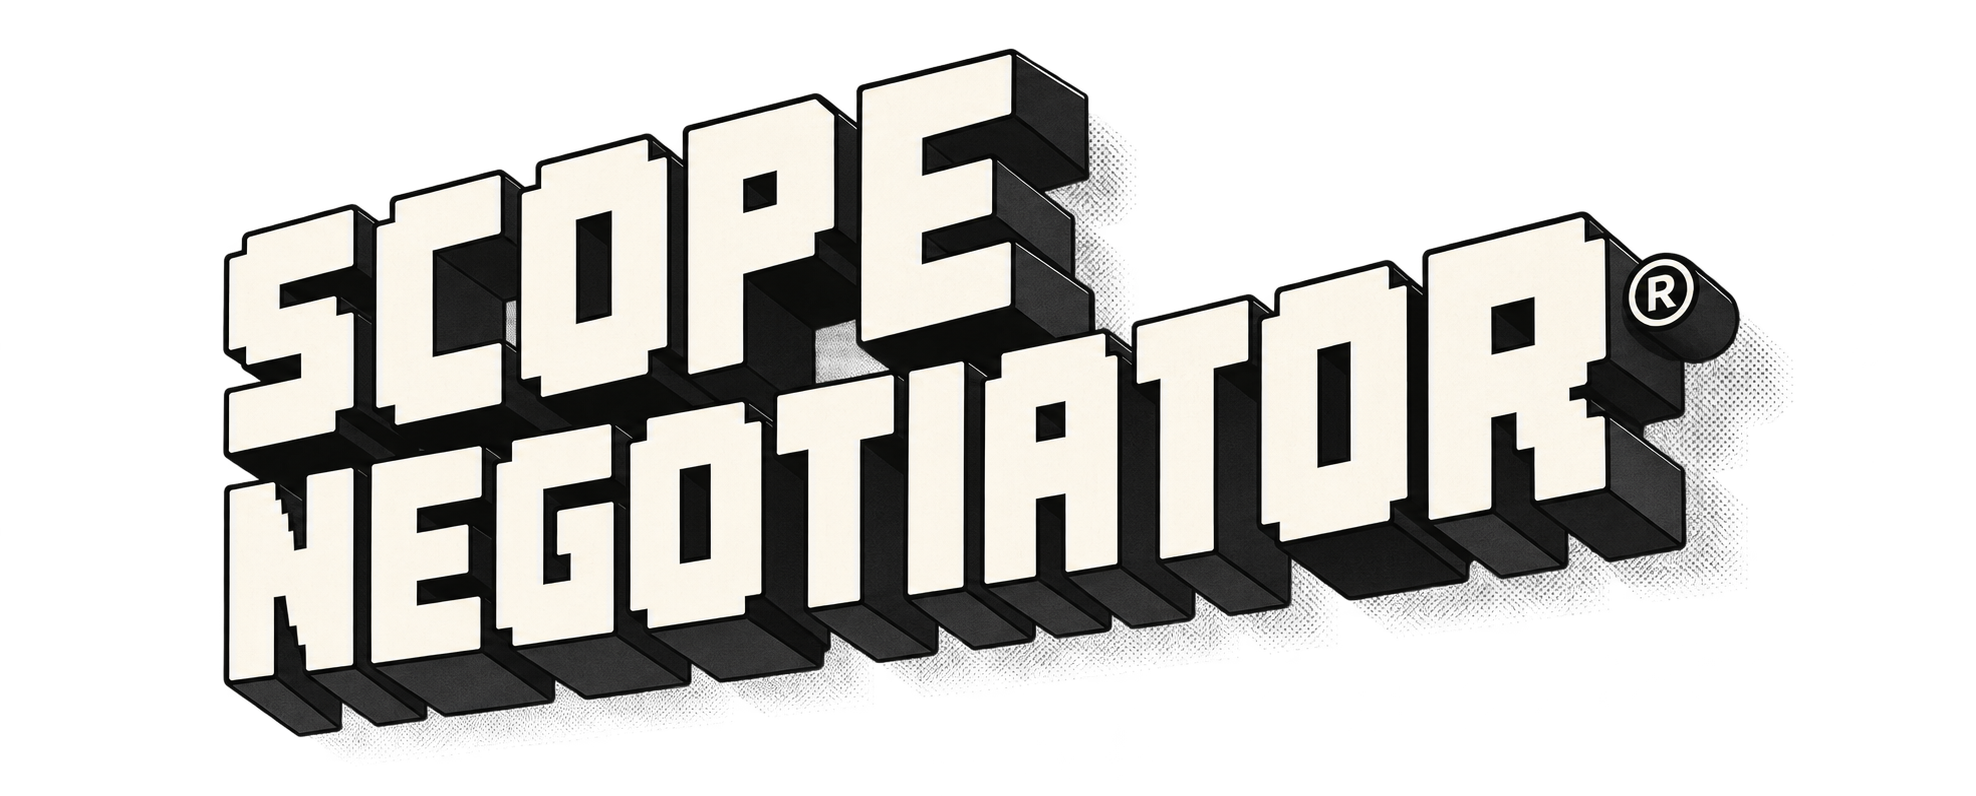
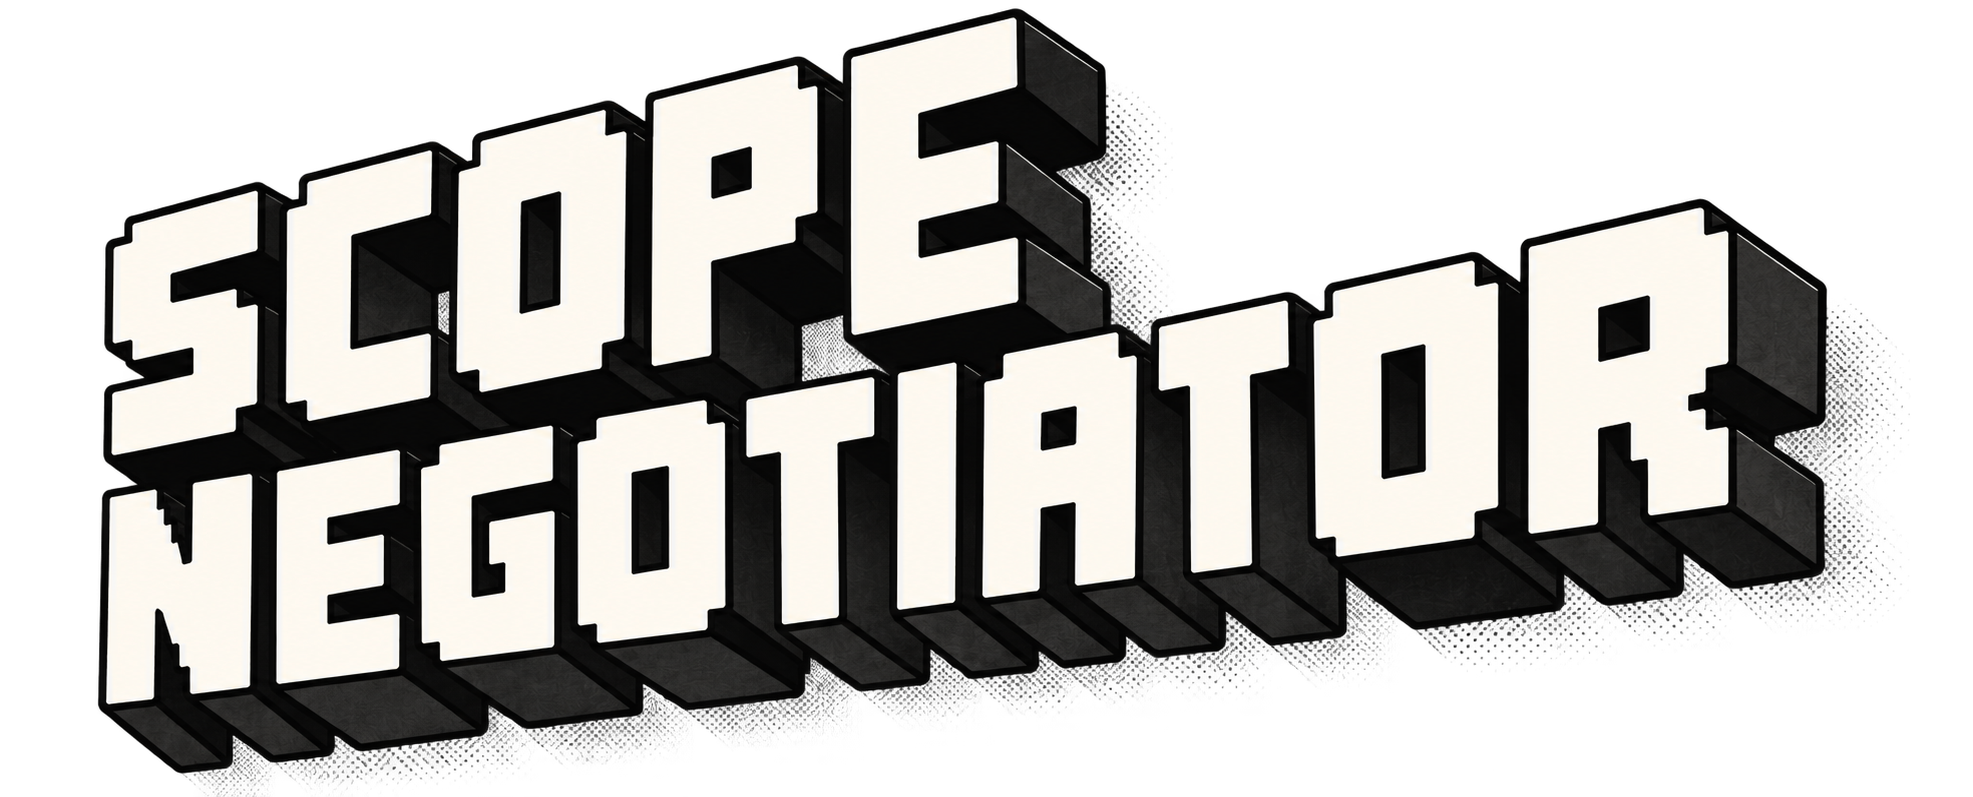
style: remove registered trademark symbol, update wordmark
Remove programmatic ® from header, sidebar, and all footers.
Replace wordmark PNG with updated version without trademark.

Changed region(s): [[0.0309, 0.0, 0.9584, 1.0]]

diff --git a/src/components/layout/WorkflowHeader.tsx b/src/components/layout/WorkflowHeader.tsx
@@ -27,7 +27,7 @@ export function WorkflowHeader({ currentStage, onReset }: Props) {
           className={styles.brand}
           onClick={onReset}
         >
-          SCOPE NEGOTIATOR<span className={styles.reg}>&reg;</span>
+          SCOPE NEGOTIATOR
         </button>
         <nav className={styles.stages} aria-label="Workflow progress">
           {STAGES.map((stage, i) => {
@@ -60,7 +60,7 @@ export function WorkflowHeader({ currentStage, onReset }: Props) {
             className={styles.brand}
             onClick={onReset}
           >
-            SCOPE NEGOTIATOR<span className={styles.reg}>&reg;</span>
+            SCOPE NEGOTIATOR
           </button>
           <span className={styles.mobileCounter}>
             {String(currentIndex + 1).padStart(2, "0")} / {String(STAGES.length).padStart(2, "0")}

diff --git a/src/components/negotiate/NegotiateScreen.tsx b/src/components/negotiate/NegotiateScreen.tsx
@@ -136,7 +136,7 @@ export function NegotiateScreen() {
       <div className={styles.footerOuter}>
         <footer className={styles.footer}>
           <span>
-            Scope Negotiator<sup>&reg;</sup>&ensp;|&ensp;Product Scoping
+            Scope Negotiator&ensp;|&ensp;Product Scoping
             System&ensp;|&ensp;V1.0
           </span>
           <span>Negotiate&ensp;|&ensp;User Decision&ensp;|&ensp;04 / 05</span>

diff --git a/src/components/context/ContextScreen.tsx b/src/components/context/ContextScreen.tsx
@@ -106,7 +106,7 @@ export function ContextScreen() {
       <div className={styles.footerOuter}>
         <footer className={styles.footer}>
           <span className={styles.footerLeft}>
-            Scope Negotiator<sup>&reg;</sup>&ensp;|&ensp;Product Scoping
+            Scope Negotiator&ensp;|&ensp;Product Scoping
             System&ensp;|&ensp;V1.0
           </span>
           <span className={styles.footerRight}>

diff --git a/src/components/understand/UnderstandScreen.tsx b/src/components/understand/UnderstandScreen.tsx
@@ -88,7 +88,7 @@ export function UnderstandScreen() {
       <div className={styles.footerOuter}>
         <footer className={styles.footer}>
           <span>
-            Scope Negotiator<sup>&reg;</sup>&ensp;|&ensp;Product Scoping
+            Scope Negotiator&ensp;|&ensp;Product Scoping
             System&ensp;|&ensp;V1.0
           </span>
           <span>Understand&ensp;|&ensp;Analysis&ensp;|&ensp;02 / 05</span>

diff --git a/src/components/lock/LockScreen.tsx b/src/components/lock/LockScreen.tsx
@@ -289,7 +289,7 @@ export function LockScreen() {
       <div className={styles.footerOuter}>
         <footer className={styles.footer}>
           <span>
-            Scope Negotiator<sup>&reg;</sup>&ensp;|&ensp;Product Scoping
+            Scope Negotiator&ensp;|&ensp;Product Scoping
             System&ensp;|&ensp;V1.0
           </span>
           <span>Lock&ensp;|&ensp;Scope Locked&ensp;|&ensp;05 / 05</span>

diff --git a/src/components/context-flow/ContextFlow.tsx b/src/components/context-flow/ContextFlow.tsx
@@ -272,7 +272,7 @@ export function ContextFlow({ mode, onChangeType }: Props) {
       <div className={styles.footerOuter}>
         <footer className={styles.footer}>
           <span>
-            Scope Negotiator<sup>&reg;</sup>&ensp;|&ensp;Product Scoping
+            Scope Negotiator&ensp;|&ensp;Product Scoping
             System&ensp;|&ensp;V1.0
           </span>
           <span>

diff --git a/src/components/states/Loading.tsx b/src/components/states/Loading.tsx
@@ -59,7 +59,7 @@ export function Loading({
       <div className={styles.footerOuter}>
         <footer className={styles.footer}>
           <span>
-            Scope Negotiator<sup>&reg;</sup>&ensp;|&ensp;Product Scoping
+            Scope Negotiator&ensp;|&ensp;Product Scoping
             System&ensp;|&ensp;V1.0
           </span>
           <span>Processing</span>

diff --git a/src/components/workspace/WorkspaceSidebar.tsx b/src/components/workspace/WorkspaceSidebar.tsx
@@ -20,7 +20,7 @@ export function WorkspaceSidebar() {
     <aside className={styles.sidebar}>
       <div className={styles.header}>
         <Link href="/" className={styles.brand}>
-          SCOPE NEGOTIATOR<span className={styles.reg}>&reg;</span>
+          SCOPE NEGOTIATOR
         </Link>
         <p className={styles.workspaceLabel}>Workspace</p>
       </div>

diff --git a/src/components/states/ErrorState.tsx b/src/components/states/ErrorState.tsx
@@ -27,7 +27,7 @@ export function ErrorState({
       <div className={styles.footerOuter}>
         <footer className={styles.footer}>
           <span>
-            Scope Negotiator<sup>&reg;</sup>&ensp;|&ensp;Product Scoping
+            Scope Negotiator&ensp;|&ensp;Product Scoping
             System&ensp;|&ensp;V1.0
           </span>
           <span>Error</span>

diff --git a/src/components/clarify/ClarifyScreen.tsx b/src/components/clarify/ClarifyScreen.tsx
@@ -83,7 +83,7 @@ export function ClarifyScreen() {
       <div className={styles.footerOuter}>
         <footer className={styles.footer}>
           <span>
-            Scope Negotiator<sup>&reg;</sup>&ensp;|&ensp;Product Scoping
+            Scope Negotiator&ensp;|&ensp;Product Scoping
             System&ensp;|&ensp;V1.0
           </span>
           <span>

diff --git a/src/components/workspace/WorkspaceSidebar.module.css b/src/components/workspace/WorkspaceSidebar.module.css
@@ -31,10 +31,7 @@
   color: var(--color-accent);
 }
 
-.reg {
-  font-size: 0.7em;
-  vertical-align: super;
-}
+
 
 .workspaceLabel {
   font-family: var(--font-mono);

diff --git a/src/components/layout/WorkflowHeader.module.css b/src/components/layout/WorkflowHeader.module.css
@@ -27,11 +27,6 @@
   color: var(--color-accent);
 }
 
-.reg {
-  font-size: 0.7em;
-  vertical-align: super;
-}
-
 /* ── Desktop ── */
 
 .desktopInner {
